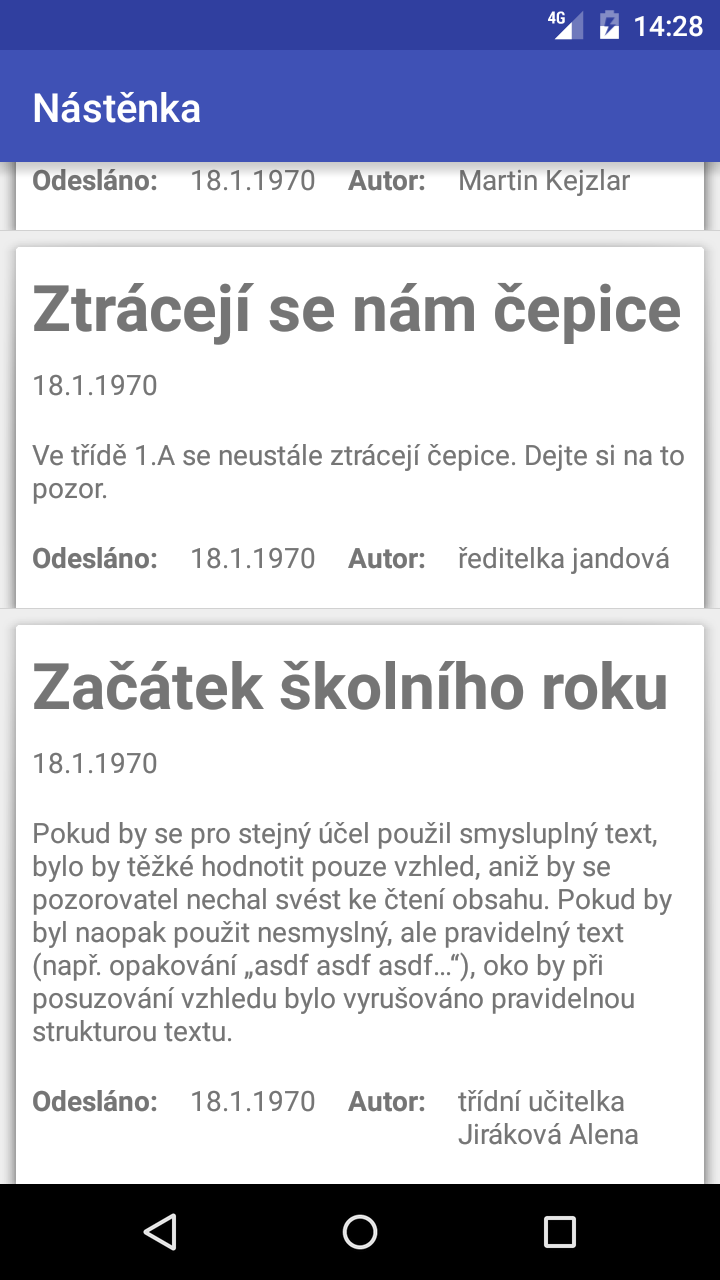
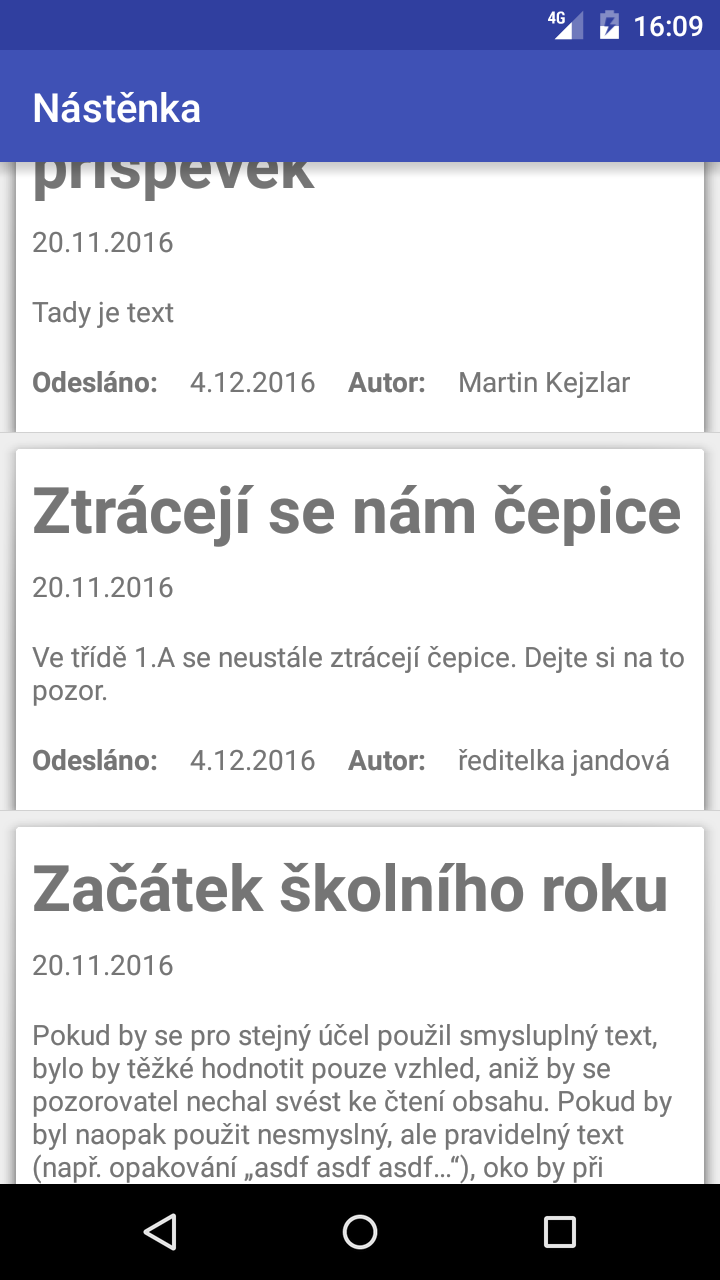
Fixed displaying of dates.

diff --git a/app/src/main/java/com/ondrejd/mobilninastenka/DashboardMessage.java b/app/src/main/java/com/ondrejd/mobilninastenka/DashboardMessage.java
@@ -108,7 +108,8 @@ public class DashboardMessage {
      * @return Formatted date string.
      */
     public String getTimestampAsDateString() {
-        return timestampToString(timestamp);
+        long ts = (long) timestamp * 1000L;
+        return timestampToString(ts);
     }
 
     /**
@@ -116,7 +117,8 @@ public class DashboardMessage {
      * @return Formatted date string.
      */
     public String getExpirationAsDateString() {
-        return timestampToString(expiration);
+        long ts = (long) expiration * 1000L;
+        return timestampToString(ts);
     }
 
     /**
@@ -124,7 +126,8 @@ public class DashboardMessage {
      * @return Formatted date string.
      */
     public String getSentAsDateString() {
-        return timestampToString(sent);
+        long ts = (long) sent * 1000L;
+        return timestampToString(ts);
     }
 
     /**
@@ -132,7 +135,7 @@ public class DashboardMessage {
      * @param timestamp Timestamp to convert.
      * @return Formatted date string.
      */
-    private String timestampToString(int timestamp) {
+    private String timestampToString(long timestamp) {
         Date date = new Date(timestamp);
         DateFormat dateFormat = new SimpleDateFormat("d.M.yyyy");
         return dateFormat.format(date);
